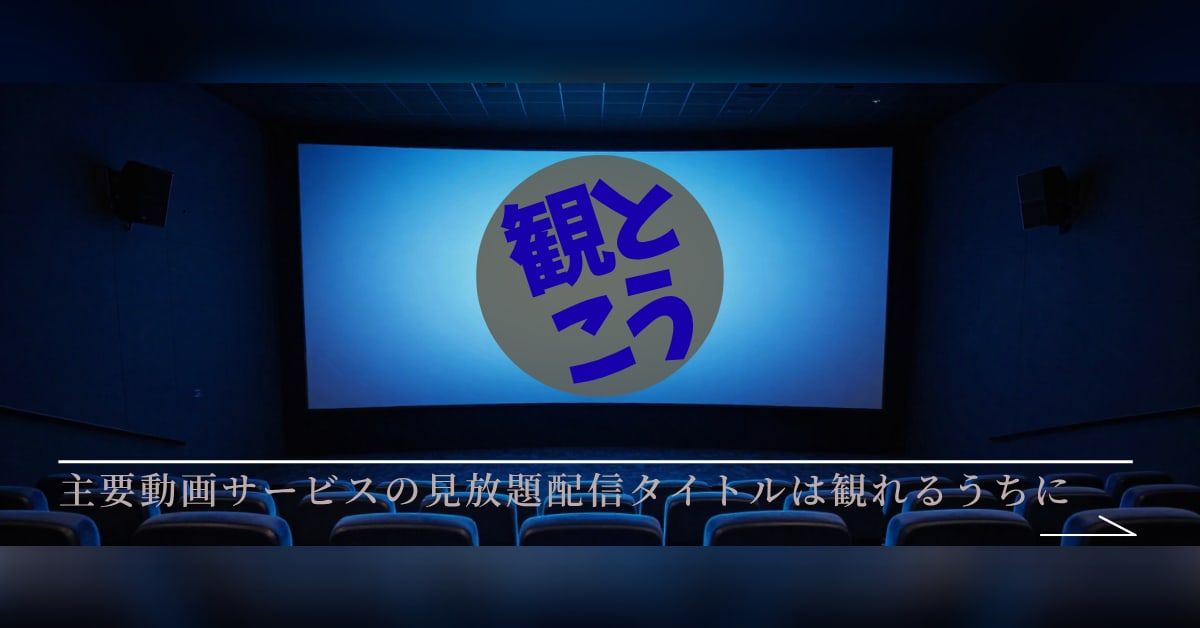
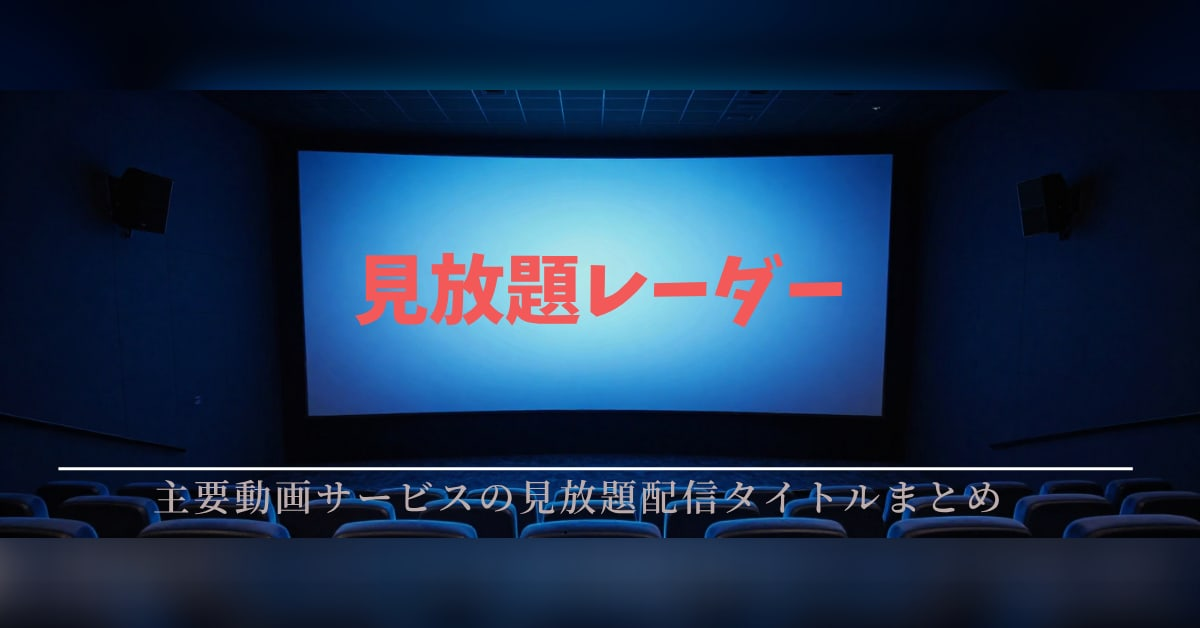
何をしたか

diff --git a/site/src/config.ts b/site/src/config.ts
@@ -3,9 +3,9 @@
  * ドメイン取得後に url を差し替えれば全体に反映される。
  */
 export const SITE = {
-  name: '観とこう',
+  name: '見放題レーダー',
   /** トップページのタイトルに使う短い一句。説明文の切り貼りにしない。 */
-  tagline: '配信終了前に、観とこう。',
+  tagline: '消える前に、気づける。',
   /**
    * 検索結果やOGPで使う説明。meta description の推奨長（全角120字）に収める。
    *
@@ -17,10 +17,10 @@ export const SITE = {
   description:
     'Netflix・Amazon Prime Video で配信が終了する作品と、Disney+ を含む新しく配信が始まった作品を追いかけるサイト。観たかった作品を見逃す前に。',
   /** 本番URL。末尾スラッシュなし。 */
-  url: 'https://mitokou.com',
+  url: 'https://mihoudairader.com',
   locale: 'ja-JP',
   /** 運営者名。お問い合わせ・運営者情報ページで使う。 */
-  author: '観とこう編集部',
+  author: '見放題レーダー編集部',
 } as const
 
 /**
@@ -39,7 +39,7 @@ export const OG_IMAGE = {
   /** 差し替えるときは 1200×630 前後（1.91:1）を守る。各SNS共通の推奨比率。 */
   width: 1200,
   height: 628,
-  alt: '観とこう｜主要動画サービスの見放題配信タイトルは観れるうちに',
+  alt: '見放題レーダー｜主要動画サービスの配信終了と新着をまとめて追う',
 } as const
 
 /**

diff --git a/docs/HANDOVER.md b/docs/HANDOVER.md
@@ -1,6 +1,6 @@
 # 引き継ぎ
 
-最終更新: 2026-08-02
+最終更新: 2026-08-23
 
 このファイルは**次に作業を再開する人（未来の自分を含む）が最初に読む1枚**。
 設計の詳細は他のファイルにあるので、ここでは「今どこにいるか」「次に何をするか」
@@ -12,12 +12,16 @@
 
 | | 状態 |
 |---|---|
-| 本番サイト | https://brog-ez1.pages.dev/ （独自ドメイン `mitokou.com` は取得済み・未割当） |
+| 本番サイト | https://brog-ez1.pages.dev/ （独自ドメイン `mihoudairader.com` は取得済み・未割当） |
+| サイト名 | **見放題レーダー**（2026-08-23 に「観とこう」から改名）。理由と却下案は [DEPLOY.md の改名の記録](../DEPLOY.md#取得したら) |
 | リポジトリ | https://github.com/MORILABABLE/brog （Private） |
-| 収集パイプライン | ✅ 実データ81件を取得済み |
+| 収集パイプライン | ✅ 2026-08 で1,089件を取得済み |
 | 邦題解決 | ✅ Wikidata経由・解決率73% |
-| サイト | ✅ 8ページ生成・型エラー0・JSなし |
-| 記事 | ✅ 実データから手書き1本を公開中 |
+| サイト | ✅ 14ページ生成・型エラー0・JSなし |
+| 記事 | ✅ 6本を公開中（`leaving`2 / `arrivals`3 / `ended`1） |
+| 記事タイプ | ✅ 5種（`npm run write -- --list` が唯一の一覧） |
+| デザイン | ✅ 濃紺の背景＋本文カード、ヘッダーバナー、カテゴリ色分け（[APPEARANCE.md](./APPEARANCE.md)） |
+| 画像 | ✅ 記事カード（OG）と本文セクション画像を**ビルド時に自動生成**。作品画像は未使用（下記の返答待ち） |
 | 記事の生成（セッション経由） | ✅ `/article` で実行。**API課金なし**。品質ゲートまで検証済み |
 | 記事の生成（API経由） | 🔶 実装済みだが**実通信は未検証**（APIキー未設定） |
 | 自動デプロイ | ✅ main への push で Cloudflare Pages が自動ビルド |
@@ -54,20 +58,64 @@ cd site && npm run build        # サイトのビルド
 | 読むべきとき | ファイル |
 |---|---|
 | **他ジャンルのブログを増やしたい** | **[NEW-THEME.md](./NEW-THEME.md)** |
+| **背景・バナー・ロゴ・OG画像・カテゴリ色・記事内の画像** | **[APPEARANCE.md](./APPEARANCE.md)** |
+| ブラウザ（github.dev）で記事やデザインを直す | [EDITING.md](./EDITING.md) |
 | 全体の設計・なぜその選択をしたか | [../DESIGN.md](../DESIGN.md) |
 | セットアップ・コマンド一覧 | [../README.md](../README.md) |
 | ドメイン取得・GitHub・Cloudflare の操作手順 | [../DEPLOY.md](../DEPLOY.md) |
-| 記事の構成・文体を変えたい | `theme-packs/streaming-jp/templates/leaving.md` |
+| 記事の構成・文体を変えたい | `theme-packs/streaming-jp/templates/leaving.md` ほか |
 
 ---
 
 ## 3. 次にやること（優先順）
 
+### ⏳ 返答待ち（2026-08-23 時点・これが再開の起点）
+
+**Movie of the Night（配信API提供元）に、ポスター画像の再ホスト可否を照会中。**
+先方の問い合わせフォーム（https://www.movieofthenight.com/contact ）から送信済み。
+
+**照会した内容**
+
+1. ビルド時にポスター画像を取得し、変換して**自分のドメインから配信してよいか**
+   （規約の「streaming availability data を再配布してはならない」に当たるかの確認）
+2. 許可される場合、契約終了時には保存した画像を消す義務があるという理解でよいか
+3. 失効する画像URLの推奨リフレッシュ間隔
+
+**なぜ聞いているか**
+
+記事本文のセクション画像を、いまの**文字だけのカード**から**作品のポスター**に
+差し替えたい。ただし規約に再ホストの明示が無いため、実装前に確認している。
+
+**返答が来たらどうするか**
+
+| 返答 | 対応 |
+|---|---|
+| **再ホスト可** | `site/scripts/make-sections.mjs` に画像取得を足す。`horizontalBackdrop`（文字なしのシーン風アート）が横長の枠に最も合う。**枠・日付・見出し・作品の選定ロジックはそのまま**、文字の部分だけ絵に差し替える |
+| **不許可** | いまのテキスト版が最終形。**追加作業なし**。この項目を消すだけでよい |
+
+**どちらでも「枠＋テキスト」は残すこと。** ポスターが取れない作品や、
+URL失効時に画像だけ欠けても記事が崩れないようにするため。
+
+**判明済みの制約（返答に関わらず効く）**
+
+- 画像URLの有効期限は6〜12ヶ月。手元のデータは **2027-03-19** まで
+- 帯域は無料プランで **1GB/月**
+- 契約終了後は画像を使用できない
+- 素材は揃っている（収集済み1,089件の**100%に posterUrl あり**）
+
+> **作中キャプチャ（本編の場面写真）は使えない。** 調査済み。
+> APIが返すのはポスターとキーアートのみ、Wikidata/Commons にも無い（実測0件）、
+> 自前のスクリーンショットは商用サイトでは引用の要件を満たさない。
+> 経緯は [APPEARANCE.md の9節](./APPEARANCE.md#9-記事ごとのカード画像)。
+
 ### すぐ
 
-1. **`mitokou.com` を Cloudflare Pages に割り当てる**
-   プロジェクト → Custom domains → Set up a custom domain。
+1. **`mihoudairader.com` を Cloudflare Pages に割り当てる**
+   **左メニューに `Pages` は無い**（`Compute & AI` の下の `Workers & Pages`）。
+   メニューを探さず `https://dash.cloudflare.com/?to=/:account/pages/view/brog-ez1/domains`
+   を直接開く。Custom domains → Set up a domain。
    Cloudflare Registrar で取得済みなのでDNSは自動。
+   詰まったときの原因は [DEPLOY.md の4節](../DEPLOY.md#4-独自ドメインを割り当てる)。
 2. **`site/src/pages/contact.astro` に実在する連絡先を設定**
    未設定だとページに警告が出る。Googleフォームが最も手軽。
    AdSense審査で連絡手段の存在が確認されるため公開前に必須。
@@ -76,18 +124,23 @@ cd site && npm run build        # サイトのビルド
 
 ### そのあと
 
-4. 記事タイプを追加（新着告知 `arrivals` / ランキング `ranking`）
-   → `theme-packs/streaming-jp/article-types/leaving.ts` と同じ形で書く
-5. `bench.ts`（同じ素材を各LLMに流してコスト・品質・検証通過率を比較）
+4. 記事タイプ `ranking` を追加（`arrivals` と `ended` は実装済み）
+   → `theme-packs/streaming-jp/article-types/ended.ts` が最も新しい実装例
+5. `upcoming` を収集の既定から外すか判断する
+   → 全実行・全サービスで**0件**が続いており、月12リクエストの空振り。
+     API側が返し始める可能性はあるので、四半期に一度 `--kinds upcoming` で手動確認する運用も可
+6. `bench.ts`（同じ素材を各LLMに流してコスト・品質・検証通過率を比較）
 6. GitHub Actions で定期実行＋PR自動作成（P3）
 7. 記事20〜30本たまったら AdSense 申請（P4）
 
 ### サイトの改善余地（自覚済み）
 
-- デザインは最小限。可読性優先で装飾していない
 - 記事一覧のページネーションなし（記事が増えたら必要）
-- OG画像の自動生成が未実装
 - 関連記事の内部リンクが未実装
+- セクション画像を記事に挿し込む `npm run sections -- --write` は手動実行
+  （ビルドが記事ファイルを書き換えるのを避けたため。画像の生成自体は自動）
+- `2026-08-leaving` は古い形式で書かれた記事（3列の表・`###` の小見出し）。
+  現行テンプレートは4列を指定している。読めてはいるので放置している
 
 ---
 
@@ -146,13 +199,30 @@ cd site && npm run build        # サイトのビルド
 - **APIレスポンスの `service` はオブジェクト**（文字列ではない）。
   ドキュメントからは読み取れず、実通信で初めて分かった。
 
+### Markdown と画像（2026-08-23 に踏んだもの）
+
+- **日本語では `**強調**` が成立しないことがある。**
+  CommonMark は前後の文字種で開閉を判定するため、`〜します。**次の文` のように
+  閉じ記号の直前が句点だと閉じられず、`**` がそのまま画面に出る。
+  → `〜します**。次の文` と書く。**品質ゲートが自動検出して公開を止める**
+  （`pipeline/core/verify.ts` の `unpairedEmphasis`）。
+- **`#` で始まる行はそのまま本文として公開される。**
+  Markdown にコメント記法は無い。記事にメモを書き残さないこと。
+  実際に11行が公開されていた。気づきはテンプレートに書く。
+- **SVG の `@font-face` も `FONTCONFIG_FILE` も効かない**（どちらも実測）。
+  画像生成でシステムフォントに依存すると、Cloudflare のビルド環境（Linux）で
+  日本語が豆腐になる。→ **opentype.js で文字をパスに変換**し、フォントを同梱している。
+- **Astro は `src/pages/_*` を無視する。** 検証用ページの名前を `_` で始めると
+  ビルドされず、原因が分かりにくい。
+- **`widths` に元画像より大きい数値を書くとビルドが落ちる**（`astro:assets`）。
+
 ---
 
 ## 5. 費用の現状
 
 | 項目 | 月額 |
 |---|---|
-| ドメイン `mitokou.com` | 約125円（年1,500円） |
+| ドメイン `mihoudairader.com` | 約125円（年1,500円） |
 | Cloudflare Pages | 0円 |
 | GitHub（Private） | 0円（Actions無料枠2,000分に対し使用見込み約40分） |
 | Streaming Availability API | 0円（無料枠500req/月に対し設計消費約250） |

diff --git a/DEPLOY.md b/DEPLOY.md
@@ -27,8 +27,8 @@
 
 1. https://dash.cloudflare.com/sign-up でアカウント作成（無料）
 2. 左メニューの **Domain Registration → Register Domain**
-3. `mitokou` で検索し、`.com` が空いていることを確認
-   （2026-08-01 時点で RDAP により未登録を確認済み。年額 約$10.5）
+3. `mihoudairader` で検索し、`.com` が空いていることを確認
+   （2026-08-23 に Cloudflare Registrar で取得済み。年額 約$10.5）
 4. カード情報を入力して購入（**Auto-renew は ON のままにする**。切れるとドメインを失う）
 5. 数分で `Websites` 一覧に自分のドメインが表示される
 
@@ -38,7 +38,7 @@
 ### 取得したら
 
 `site/src/config.ts` の `SITE.url` と `site/public/robots.txt` の Sitemap 行は
-**すでに `mitokou.com` に設定済み**。別のドメインにした場合のみ書き換える。
+**すでに `mihoudairader.com` に設定済み**。別のドメインにした場合のみ書き換える。
 
 > **ドメイン選定の記録（2026-08-01）**
 > `nanimiru.com` は2024年12月に第三者が登録済みだったため断念。
@@ -47,6 +47,39 @@
 > `mitokou.com`（観とこう）はハイフンなしで取得でき、サイトの目的
 > 「配信終了前に観ておく」がそのまま名前になる点を評価して採用。
 > なお**ハイフンの有無自体は Google のランキング要因ではない**（判断材料は流出リスクと語感）。
+
+> **改名の記録（2026-08-23）— 観とこう → 見放題レーダー**
+>
+> **なぜ変えたか。** 「観とこう」は読みが確定しない（「観」を「み」と読ませるのは
+> 「観る」からの訓読みなので、単独では「かんとこう」と読まれる）。
+> ひらがな「みとこう」への統一を検討したが、実測で**ブランド名として使えない**と判明した。
+>
+> | 検査（2026-08-23 実測） | みとこう | 見放題レーダー |
+> |---|---|---|
+> | 完全一致の占有者 | 水戸黄門（TBS 43部・1,127回）＋水戸市＋水戸工業高 | **なし（0件）** |
+> | Googleサジェスト | 水戸黄門関連で10件埋まる | **空配列** |
+> | 自分の名前で1位を取れるか | 事実上不可能 | 公開後ほぼ確実 |
+>
+> **判断の要点は「ブランドクエリで1位を取れるかは、後から取り返せない唯一の項目」。**
+> 記事6本・独自ドメイン未割当・外部言及ゼロの時点なら、改名コストは実質ゼロだった。
+> 逆に言えば、**この時期を逃すと同じ作業のコストが跳ね上がる**。
+>
+> **却下した案と理由**（再提案を防ぐため）
+> - `見放題カレンダー` — 競合1位2位（animephilia.net「Netflix 配信終了予定カレンダー」等）の
+>   ページタイトルと文字列衝突し、ブランドクエリが競合に吸われる
+> - `観れるうちに` — ら抜き言葉のため SERP が国語解説サイトに占領され、表記ゆれが4通り
+> - `見逃し〇〇` — TVer の「見逃し配信」と概念衝突
+> - `配信〇〇`（単体） — ライブ配信・Vtuber 文脈に汚染される（`配信終了` の複合ならクリーン）
+> - `見放題ぜんぶ` — U-NEXT・Hulu・DMM TV は API 非対応（DESIGN.md 参照）なので事実に反する
+>
+> **運用上の注意（実測に基づく）**
+> 1. **「見放題」と略させない。** Googleサジェスト `見放題␣` の10件中7件は
+>    音楽フェス「見放題」（mihoudai.jp、大阪/東京/名古屋）。動画配信の意味はサジェストに無い。
+>    ロゴ・タイトル・SNSハンドルは常に「見放題レーダー」7文字を1単位で出す。
+> 2. **「レーダーサイト」と自称しない。** 航空自衛隊の施設名（サジェスト実測）。
+> 3. **綴りは `rader`。** 英語の正しい綴りは `radar`。`mihoudairadar.com` は
+>    2026-08-23 時点で未登録なので、タイプイン流出が気になるなら防衛取得してリダイレクトする。
+> 4. **商標は確認済み（2026-08-23）。** J-PlatPat で `見放題` を照会し、問題なしと判断した。
 
 ---
 
@@ -233,12 +266,40 @@ git push -u origin main
 
 ## 4. 独自ドメインを割り当てる
 
-1. Pages プロジェクト → **Custom domains → Set up a custom domain**
-2. 取得したドメイン（例: `mitokou.com`）を入力
-3. Cloudflare Registrar で取得していれば、**DNSレコードは自動で作成される**
-4. 数分〜十数分で HTTPS 込みで公開される（証明書も自動）
+> ⚠ **左メニューに `Pages` という項目は無い。**メニューを探さず、下のリンクを開くこと。
+>
+> ```
+> https://dash.cloudflare.com/?to=/:account/workers-and-pages
+> ```
+>
+> プロジェクトの Custom domains に直行する場合（`brog-ez1` はプロジェクト名）:
+>
+> ```
+> https://dash.cloudflare.com/?to=/:account/pages/view/brog-ez1/domains
+> ```
+>
+> `:account` はダッシュボード側が自動で解決するので、アカウントIDを調べる必要はない。
 
-`www` ありでもアクセスさせたい場合は、`www.mitokou.com` も同様に追加する。
+1. 上のリンクで **Workers & Pages** を開き、`brog-ez1` を選択
+2. 上部タブの **Custom domains → Set up a domain**
+3. 取得したドメイン（例: `mihoudairader.com`）を入力 → **Continue**
+4. Cloudflare Registrar で取得していれば、**DNSレコードは自動で作成される**
+5. 数分〜十数分で HTTPS 込みで公開される（証明書も自動）。Status が `Active` になれば完了
+
+`www` ありでもアクセスさせたい場合は、`www.mihoudairader.com` も同様に追加する。
+
+> **`Pages` がメニューに見当たらないとき**（2026-08 時点で実際に詰まった箇所）
+>
+> 1. **ドメインの中に入っていないか確認する。** アカウントのホームから
+>    `mihoudairader.com` をクリックすると、左メニューが**そのドメイン専用の項目**
+>    （DNS / SSL-TLS / Caching / Rules …）に切り替わり、Workers & Pages は消える。
+>    左上のパンくず（アカウント名）をクリックして**アカウント階層に戻る**。
+> 2. **メニューが再編された。** Cloudflare は Workers に静的アセット配信を統合し、
+>    新規の静的サイトを Workers に寄せる方針に変えた。その過程で `Pages` は
+>    独立項目ではなくなり、**`Compute & AI` グループの下の `Workers & Pages`** に入った。
+>    探すときは `Pages` ではなく **`Compute`** を目印にする。
+>
+> **既存の Pages プロジェクトはそのまま動く。**移行は不要。変わったのは新規作成の導線だけ。
 
 ---
 

diff --git a/docs/EDITING.md b/docs/EDITING.md
@@ -282,11 +282,11 @@ git pull
 
 | 見たいもの | URL |
 |---|---|
-| トップページ | https://mitokou.com |
-| 2026年9月の配信終了記事 | https://mitokou.com/posts/2026-09-leaving |
-| 2026年8月の配信終了記事 | https://mitokou.com/posts/2026-08-leaving |
-| 配信終了カテゴリの一覧 | https://mitokou.com/category/leaving |
-| サイトマップ（Search Console用） | https://mitokou.com/sitemap-index.xml |
+| トップページ | https://mihoudairader.com |
+| 2026年9月の配信終了記事 | https://mihoudairader.com/posts/2026-09-leaving |
+| 2026年8月の配信終了記事 | https://mihoudairader.com/posts/2026-08-leaving |
+| 配信終了カテゴリの一覧 | https://mihoudairader.com/category/leaving |
+| サイトマップ（Search Console用） | https://mihoudairader.com/sitemap-index.xml |
 
 ## 記事URLの決まり方
 
@@ -295,7 +295,7 @@ git pull
 ```
 site/src/content/posts/2026-09-leaving.md
                        └─────┬─────┘
-https://mitokou.com/posts/2026-09-leaving
+https://mihoudairader.com/posts/2026-09-leaving
 ```
 
 末尾にスラッシュは付かない（`site/astro.config.mjs` の `build.format: 'file'` による）。
@@ -395,7 +395,7 @@ git push
 |---|---|
 | GitHub のコミット一覧 | ✅ / ❌ でビルドの成否 |
 | Cloudflare → Workers & Pages → 該当プロジェクト → **Deployments** | ビルドログ。失敗の原因はここに出る |
-| https://mitokou.com/posts/2026-09-leaving | 実際に公開された記事 |
+| https://mihoudairader.com/posts/2026-09-leaving | 実際に公開された記事 |
 
 > **ビルドが失敗しても公開中のサイトは壊れない。**
 > Cloudflare は成功したビルドだけを公開するので、「反映されない」だけで済む。

diff --git a/DESIGN.md b/DESIGN.md
@@ -24,8 +24,8 @@
 | 公開フロー | **PR承認制**（AIが下書きPRを作成 → 人がマージ → 本番公開） |
 | LLM | プロバイダ差し替え可能（Claude / Gemini / OpenAI互換）。開発基準は Claude Sonnet 5 |
 | 収益化 | ASPアフィリエイト（主力）＋ Amazonアソシエイト ＋ AdSense |
-| ドメイン | **`mitokou.com`**（観とこう）。選定理由は [DEPLOY.md](./DEPLOY.md#取得したら) を参照 |
-| サイト名 | **観とこう** — 「配信終了前に、観とこう。」 |
+| ドメイン | **`mihoudairader.com`**（見放題レーダー）。選定理由は [DEPLOY.md](./DEPLOY.md#取得したら) を参照 |
+| サイト名 | **見放題レーダー** — 「消える前に、気づける。」 |
 | サーバー | 不要（静的サイト＋GitHub Actions）。必要なのは独自ドメインのみ |
 
 ---

diff --git a/docs/APPEARANCE.md b/docs/APPEARANCE.md
@@ -362,7 +362,7 @@ export const OG_IMAGE = {
   path: '/og-default.jpg',
   width: 1200,
   height: 628,
-  alt: '観とこう｜主要動画サービスの見放題配信タイトルは観れるうちに',
+  alt: '見放題レーダー｜主要動画サービスの配信終了と新着をまとめて追う',
 } as const
 ```
 
